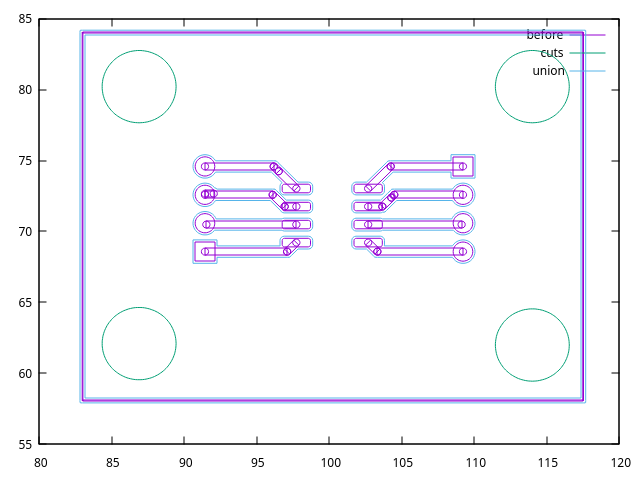
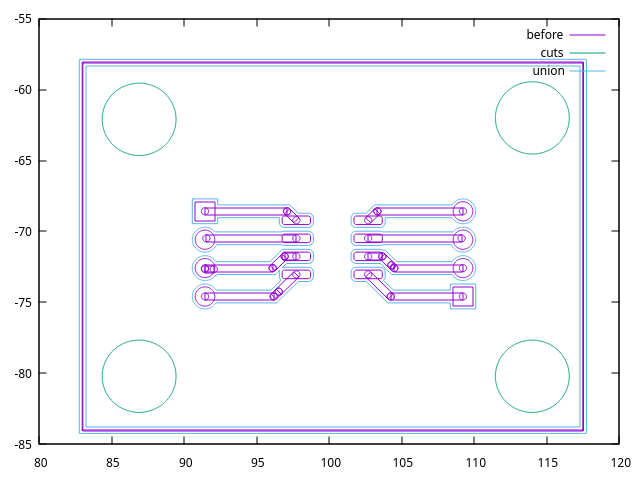
Negate the Y axis for gnuplot examples, update README.md
This makes the SVG input, output and gnuplot views look like they
have the same orientation. Gnuplot's Y axis increases up the page
and SVGs, like most image formats, increases down the page.

diff --git a/examples/outline.go b/examples/outline.go
@@ -38,15 +38,15 @@ func plotData(out io.Writer, s *polygon.Shapes, lines ...polygon.Line) {
 	fmt.Fprintln(out, "# X Y")
 	for i, p := range s.P {
 		for _, pt := range p.PS {
-			fmt.Fprintf(out, "%g %g\n", pt.X, pt.Y)
+			fmt.Fprintf(out, "%.3f %.3f\n", pt.X, -pt.Y)
 		}
-		fmt.Fprintf(out, "%g %g\n", p.PS[0].X, p.PS[0].Y)
+		fmt.Fprintf(out, "%.3f %.3f\n", p.PS[0].X, -p.PS[0].Y)
 		if i != len(s.P)-1 {
 			fmt.Fprintln(out)
 		}
 	}
 	for _, line := range lines {
-		fmt.Fprintf(out, "\n%g %g\n%g %g\n", line.From.X, line.From.Y, line.To.X, line.To.Y)
+		fmt.Fprintf(out, "\n%.3f %.3f\n%.3f %.3f\n", line.From.X, -line.From.Y, line.To.X, -line.To.Y)
 	}
 	fmt.Fprintln(out, "e")
 }
@@ -108,7 +108,6 @@ func main() {
 	}
 
 	if haveUnion {
-		shapes.Union()
 		if *inflate != 0 {
 			for i := range shapes.P {
 				if err := shapes.Inflate(i, *inflate); err != nil {
@@ -116,6 +115,7 @@ func main() {
 				}
 			}
 		}
+		shapes.Union()
 	}
 
 	var lines []polygon.Line
@@ -142,7 +142,7 @@ func main() {
 		if err := svgpoly.SVG(shapes, out, *scribe, lines); err != nil {
 			log.Fatalf("Failed to render SVG output: %v", err)
 		}
-	} else {
+	} else if haveUnion {
 		plotData(out, shapes, lines...)
 	}
 }

diff --git a/README.md b/README.md
@@ -29,12 +29,17 @@ Debian: `sudo apt install gnuplot`). Then:
 ```
 $ git clone https://github.com/tinkerator/svgpoly.git
 $ cd svgpoly
-$ go run examples/outline.go -- --svg examples/test.svg --hatch 0.3 | gnuplot -p
+$ go run examples/outline.go --svg examples/test.svg --hatch 0.3 | gnuplot -p
 ```
 
 Which should render this processed (union) image:
 
 <img src="with-union-hatched.png" width="80%" alt="polygon outlines of shapes with hatch fill"/>
+
+- **Note** how this output is visually oriented the same as the input
+  `examples/test.svg` but to conform to gnuplot conventions, we've
+  negated the Y axis values relative to the _down the page_ SVG Y axis
+  conventions.
 
 This example is more faithful to the raw input SVG image in terms of
 the overlapping polygons.
@@ -51,7 +56,7 @@ We can inflate the polygons by the value specified with the
 `--inflate` option.
 
 ```
-$ go run examples/outline.go --svg examples/test.svg --before --inflate 0.3 | gnuplot -p
+$ go run examples/outline.go --svg examples/test.svg --before --inflate 0.2 | gnuplot -p
 ```
 
 Which should render this image:
@@ -60,7 +65,9 @@ Which should render this image:
 
 Finally, you can output `*polygons.Shapes` in the form of an SVG. The
 SVG follows the conventions that `.Hole`s appear white and
-non-`.Hole`s as blue:
+non-`.Hole`s as blue. A red line is used to identify the outside of a
+hole shape (or, said another way, the inner edge of a solid
+shape-ring):
 
 ```
 $ go run examples/outline.go --svg examples/test.svg --osvg output.svg --hatch 0.3
@@ -70,16 +77,12 @@ Which renders as follows:
 
 <img src="ref-output.svg" width="80%" alt="Inflated union with hatch"/>
 
-Note how this output is currently flipped vertically from the
-`gnuplot` output. This SVG output is faithful to the input format. The
-`gnuplot` output is not. This is because the native input data is from
-an SVG which has the opposite Y coordinate direction as `gnuplot`.
-
-Another example is provided to visualize how the
+The `example/inflate.go` is provided to visualize how the
 [(*polygon.Shapes).Inflate()](https://pkg.go.dev/zappem.net/pub/math/polygon#Shapes.Inflate)
 function works. The basic idea is that the outline of the shape is
 grown by some distance, and where the resulting outline is to be found
-is where lines at that distance intersect. A simple example is this:
+is where lines at that distance intersect. This example program only
+outputs in SVG format. A simple invocation of this code is this:
 
 ```
 $ go run examples/inflate.go --dest inflate.svg
@@ -116,11 +119,6 @@ $ go run examples/inflate.go --dest tight.svg --alpha 70 --beta 70 --mid 10
 
 ## TODO
 
-- Flip the coordinates to render with a consistent orientation as the
-  SVG in gnuplot. KiCad is generating an image with the intended
-  orientation, so gnuplot should honor that. We'll do it by negating
-  the Y coordinates.
-
 - Implement an `--inverse` operation to "fill" where the polygons
   aren't. That is, follow this strategy:
 
@@ -129,8 +127,8 @@ $ go run examples/inflate.go --dest tight.svg --alpha 70 --beta 70 --mid 10
     "holes". Both of these sets of objects are fully preserved in this
     final output.
 
-  - First take the original shapes (ignoring the original holes) and
-    inflate them by `--inflate`.
+  - First take the original shapes from before the first union (there
+    are no holes) and inflate them by `--inflate`.
 
   - Compute the Union of these inflated shapes. Drop any holes from
     this union.
